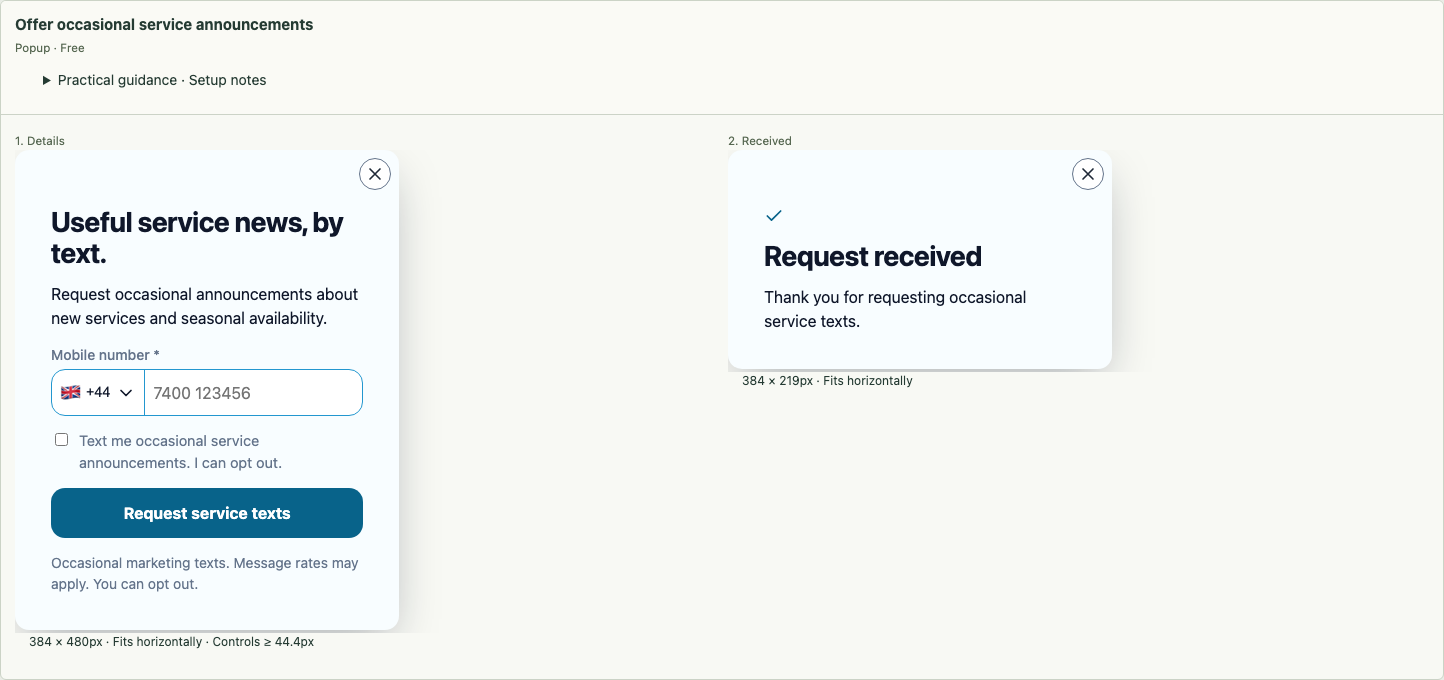
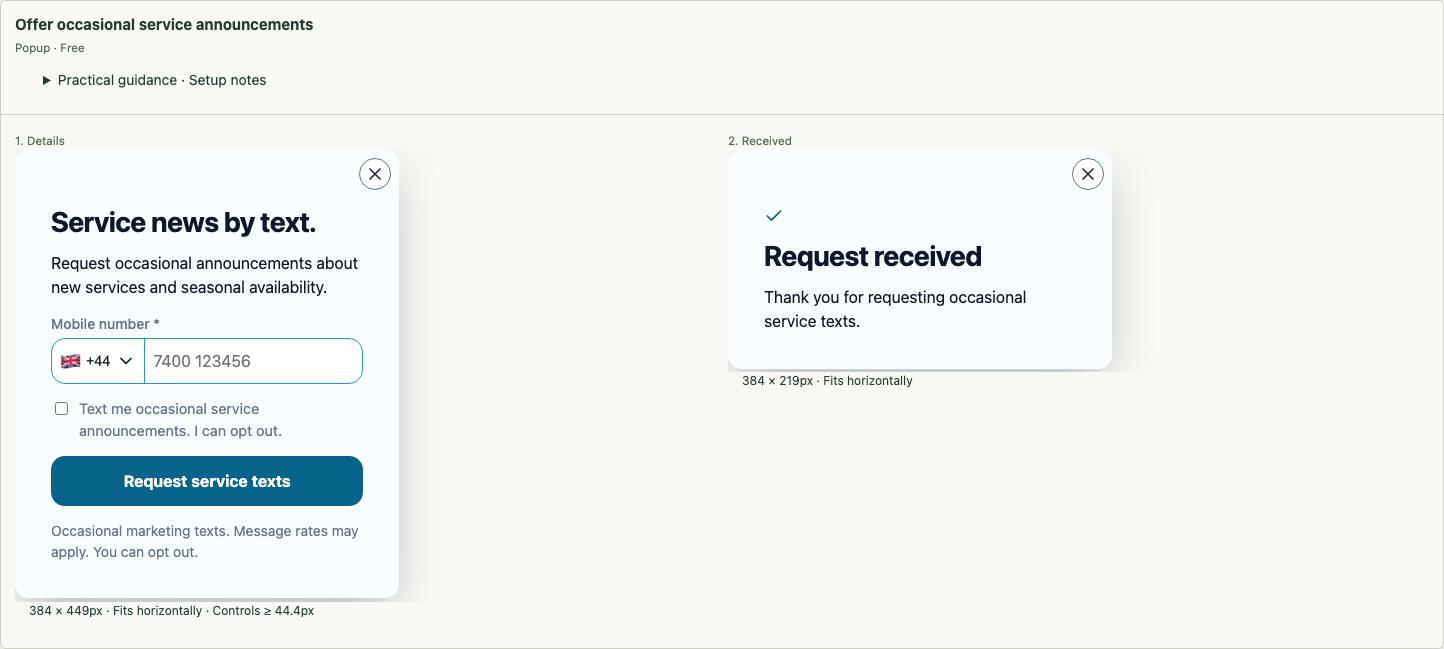
Address review: true copy, recorded design versions, real Privacy Guidance
- studio-welcome ties the code to joining again: a list Goal shows consent
  and a shown consent is required, so the earlier "choose whether" wording
  was false.
- collection-interest fills both fine-print slots and no longer implies the
  choice filters the email; service-text-updates' headline fits one line;
  related-essay no longer promises content the merchant may not have.
- The seven changed designs get their version in design-history.json.
- BundledJourney reveals consent through PrivacyGuidance itself.
- The drawings report counts six SVGs already on main; its hash is re-pinned.

Four setups re-approved over the fresh evidence.

diff --git a/resources/playbooks/collection-interest.php b/resources/playbooks/collection-interest.php
@@ -9,7 +9,7 @@ return [
     'template_id' => 'preference-card',
     'business_types' => ['stores'],
     'notes' => __('Embed on the collection hub. Map interest in a supported destination or use saved Lead data in your follow-up process. Capture alone does not create segmentation; MailPoet mapping applies to new subscribers only.', 'wconvert'),
-    'copy' => ['eyebrow'=>__('A useful starting point', 'wconvert'), 'headline'=>__('Shop news for your corner of home.', 'wconvert'), 'body'=>__('Choose a collection you would like to hear about in our monthly shop notes.', 'wconvert'), 'fine_print'=>__('Monthly shop notes. Choose a collection, or leave it for all of them.', 'wconvert'), 'interest_label'=>__('Which collection interests you most? (optional)', 'wconvert'), 'interest_placeholder'=>__('Choose an option', 'wconvert'), 'interest_options'=>['options'=>[['value'=>'garden', 'label'=>__('Garden and growing', 'wconvert')], ['value'=>'home', 'label'=>__('Home and everyday objects', 'wconvert')], ['value'=>'gifts', 'label'=>__('Thoughtful gifts', 'wconvert')]]], 'email_label'=>__('Email address', 'wconvert'), 'email_placeholder'=>__('you@example.com', 'wconvert'), 'consent_text'=>__('Email me monthly collection notes. I can unsubscribe anytime.', 'wconvert'), 'cta_label'=>__('Request collection notes', 'wconvert'), 'success_headline'=>__('Request received', 'wconvert'), 'success_body'=>__('Thank you for requesting our monthly shop notes.', 'wconvert')],
+    'copy' => ['eyebrow'=>__('A useful starting point', 'wconvert'), 'headline'=>__('Shop news for your corner of home.', 'wconvert'), 'body'=>__('Choose a collection you would like to hear about in our monthly shop notes.', 'wconvert'), 'fine_print'=>[__('Monthly shop notes from our garden, home and gift collections.', 'wconvert'), __('Choosing a collection is optional.', 'wconvert')], 'interest_label'=>__('Which collection interests you most? (optional)', 'wconvert'), 'interest_placeholder'=>__('Choose an option', 'wconvert'), 'interest_options'=>['options'=>[['value'=>'garden', 'label'=>__('Garden and growing', 'wconvert')], ['value'=>'home', 'label'=>__('Home and everyday objects', 'wconvert')], ['value'=>'gifts', 'label'=>__('Thoughtful gifts', 'wconvert')]]], 'email_label'=>__('Email address', 'wconvert'), 'email_placeholder'=>__('you@example.com', 'wconvert'), 'consent_text'=>__('Email me monthly collection notes. I can unsubscribe anytime.', 'wconvert'), 'cta_label'=>__('Request collection notes', 'wconvert'), 'success_headline'=>__('Request received', 'wconvert'), 'success_body'=>__('Thank you for requesting our monthly shop notes.', 'wconvert')],
     'rules' => [['type'=>'page_load']],
     'destination_hint' => ['types'=>[], 'fields'=>['email']],
 ];

diff --git a/resources/playbooks/studio-welcome.php b/resources/playbooks/studio-welcome.php
@@ -12,16 +12,16 @@ return [
     'copy' => [
         'eyebrow' => [__('A little room to grow', 'wconvert'), __('Your first order', 'wconvert'), __('Thank you', 'wconvert')],
         'body' => [__('Everyday objects.
-A slower kind of living.', 'wconvert'), __('Reveal 10% off your first order, and choose whether to get our monthly home and garden notes.', 'wconvert')],
+A slower kind of living.', 'wconvert'), __('Join our monthly home and garden notes to reveal 10% off your first order.', 'wconvert')],
         'headline' => __('Make yourself
 at home.', 'wconvert'),
         'email_label' => __('Email address', 'wconvert'),
         'email_placeholder' => __('you@example.com', 'wconvert'),
         'consent_text' => __('Email me monthly home and garden notes. I can unsubscribe anytime.', 'wconvert'),
-        'cta_label' => __('Reveal my code', 'wconvert'),
+        'cta_label' => __('Join and reveal my code', 'wconvert'),
         'fine_print' => [__('First order only. Review the store’s offer terms before checkout.', 'wconvert'), __('First order only. Offer terms apply.', 'wconvert')],
         'success_headline' => __('A little welcome, for you.', 'wconvert'),
-        'success_body' => __('Here is your welcome code. Use it at checkout on your first order.', 'wconvert'),
+        'success_body' => __('You have joined our monthly notes. Here is your welcome code for your first order.', 'wconvert'),
     ],
     'rules' => [[
             'type' => 'time_on_page',

diff --git a/tests/unit/Support/BundledJourney.php b/tests/unit/Support/BundledJourney.php
@@ -2,6 +2,9 @@
 
 namespace WConvert\Tests\Unit\Support;
 
+use WConvert\Goal\Goal;
+use WConvert\Privacy\PrivacyGuidance;
+
 /**
  * A bundled journey design as a list-Goal campaign holds it. The library ships
  * every consent hidden, and Privacy Guidance reveals it at prefill (ADR 0099),
@@ -29,11 +32,6 @@ final class BundledJourney
      */
     public static function revealed(array $tree): array
     {
-        $reveal = static function (array $node) use (&$reveal): array {
-            if (($node['type'] ?? null) === 'consent') $node['hidden'] = false;
-            foreach ($node as $key => $child) if (is_array($child)) $node[$key] = $reveal($child);
-            return $node;
-        };
-        return $reveal($tree);
+        return (new PrivacyGuidance(new FakeOptionStore()))->treeFor($tree, Goal::GrowEmailList);
     }
 }

diff --git a/resources/playbooks/service-text-updates.php b/resources/playbooks/service-text-updates.php
@@ -10,7 +10,7 @@ return [
     'business_types' => ['services'],
     'notes' => __('Connect a supported SMS service or choose Keep in WConvert only with a defined follow-up process. These are marketing announcements, not appointment reminders.', 'wconvert'),
     'copy' => [
-        'headline' => __('Useful service news, by text.', 'wconvert'),
+        'headline' => __('Service news by text.', 'wconvert'),
         'body' => __('Request occasional announcements about new services and seasonal availability.', 'wconvert'),
         'phone_label' => __('Mobile number', 'wconvert'),
         'phone_placeholder' => __('+44 7700 900000', 'wconvert'),

diff --git a/resources/playbooks/related-essay.php b/resources/playbooks/related-essay.php
@@ -12,7 +12,7 @@ return [
     'copy' => [
         'eyebrow' => __('Keep reading', 'wconvert'),
         'headline' => __('Next: putting the idea into practice.', 'wconvert'),
-        'body' => __('The follow-up article walks through one small change to try this week, with an example.', 'wconvert'),
+        'body' => __('The follow-up turns this article’s idea into practical steps you can try.', 'wconvert'),
         'fine_print' => __('Continue when you have a moment.', 'wconvert'),
         'cta_label' => __('Read the follow-up', 'wconvert')
     ],

diff --git a/docs/reviews/held-designs-2026-10-25/review.md b/docs/reviews/held-designs-2026-10-25/review.md
@@ -2,7 +2,7 @@
 
 20 setups the backlog review of 20 October sent back for revision, each reworked against its note. Machine checks: `results.json` (all 20 pass the visitor walk on a disposable WordPress at 320 and 1280 px). Judgement from each setup's contact sheets (`<id>-320.png`, `<id>-1440.png`) against `tools/design-library/pilot/PRACTICAL-REVIEW.md`. Standing limits: `tools/design-library/review/README.md`.
 
-Design changes in this round: `ink-split` and `stacked-signup` put consent above the submit button, and ink-split centres its acknowledgement check; `journey-enquiry` and `journey-email-then-sms` put Back after the primary and skip actions, and the latter labels it Change email; `studio-window` caps its drawing at 7rem on phones; the three journey designs that showed consent by default now ship it hidden, which Privacy Guidance reveals for list Goals (ADR 0099). No setup that was approved uses a changed design except `maker-session-invitation`, whose render is unchanged.
+Design changes in this round: `ink-split` and `stacked-signup` put consent above the submit button, and ink-split centres its acknowledgement check; `journey-enquiry` and `journey-email-then-sms` put Back after the primary and skip actions, and the latter labels it Change email; `studio-window` caps its drawing at 7rem on phones; the three journey designs that showed consent by default now ship it hidden, which Privacy Guidance reveals for list Goals (ADR 0099). No setup that was approved uses a changed design except `maker-session-invitation`, whose render is unchanged. Two bundled starting points outside the catalogue, `journey-enquiry` and `journey-email-only`, also use changed designs: one gains the Back order above, and both still show consent for a list Goal because Privacy Guidance reveals it. `journey-email-only` keeps its design in the plugin, so 23 of the 24 held designs can now be published.
 
 ## Approved
 
@@ -19,10 +19,10 @@ Design changes in this round: `ink-split` and `stacked-signup` put consent above
 - **headlines-optional-sms**: the email step's headline says what the briefing is. Action order and the Change email label match the journey above; the acknowledgement is true whether or not a number was added.
 - **landscaping-enquiry**: Back now sits below the primary 'Send my garden enquiry' at both widths, so the hierarchy reads top to bottom.
 - **accounting-consultation**: the headline names bookkeeping. The acknowledgement eyebrow is 'Thank you' and the body states the email reply, so nothing promises steps it does not give.
-- **collection-interest**: the collection question reads as the point but stays optional, and the acknowledgement no longer claims a preference was received. The phone headline breaks cleanly and unsubscribe wording appears once.
+- **collection-interest**: the collection question reads as the point but stays optional, said once under the button, and the acknowledgement no longer claims a preference was received. The phone headline breaks cleanly and unsubscribe wording appears once.
 - **project-readiness-guide**: the cover now carries a numeral and a short caption, so the form has the only headline. 'One resource email' appears once, and the acknowledgement says the checklist was requested by email.
 - **workspace-change-story**: visitor copy no longer calls the room fictional; the footnote states the limit plainly (every room differs). The headline no longer echoes accounting-consultation.
-- **related-essay**: the headline and body now say what the follow-up covers: one small change to try, with an example.
+- **related-essay**: the headline and body now say what the follow-up is for: putting this article's idea into practice. The merchant names the actual article in its link; the setup cannot know it.
 - **drop-alerts**: consent sits above the button, and its wording is an agreement rather than a second copy of the button. The footer carries rates and opt-out once.
-- **service-text-updates**: consent sits above the button; the desktop headline no longer strands 'By / text'; the acknowledgement names the service texts.
-- **studio-welcome**: on a phone the drawing is 112 px tall, so the headline and the offer start in the first screen. Copy no longer ties the code to joining: the code is revealed either way and the monthly notes are a separate, unticked choice. The acknowledgement says the code is here.
+- **service-text-updates**: consent sits above the button; the shorter headline sits on one line on desktop; the acknowledgement names the service texts.
+- **studio-welcome**: on a phone the drawing is 112 px tall, so the headline and the offer start in the first screen. The code is tied to joining, and that is honest: a list Goal shows the consent box and a shown consent box is required (ADR 0032, ADR 0099), so nobody reaches the code without joining. The acknowledgement now says so and presents the code.

diff --git a/docs/reviews/drawing-exports-2026-10-25/report.md b/docs/reviews/drawing-exports-2026-10-25/report.md
@@ -1,6 +1,6 @@
 # Drawing exports — 25 October 2026
 
-Thirteen inline SVG drawings in twelve Free designs had no reviewed raster, so the catalogue could not export those designs (ADR 0156). Each drawing was extracted unchanged from its design into `tools/design-library/pilot/assets/<name>.svg` (five were already there, byte-identical), and rasterised once with resvg-js 2.6.2 to an 8-bit PNG at about twice its largest displayed size. No build converts automatically: `publishing/catalog.json` binds each design's exact source URI hash to the PNG hash and to this report.
+Thirteen inline SVG drawings in twelve Free designs had no reviewed raster, so the catalogue could not export those designs (ADR 0156). Each drawing was extracted unchanged from its design into `tools/design-library/pilot/assets/<name>.svg` (six were already there, byte-identical), and rasterised once with resvg-js 2.6.2 to an 8-bit PNG at about twice its largest displayed size. No build converts automatically: `publishing/catalog.json` binds each design's exact source URI hash to the PNG hash and to this report.
 
 **Provenance.** Every drawing is original WConvert geometric artwork authored in this repository (first commits between 28 August and 28 September 2026; see `pilot/assets/README.md`), under the repository's GPL-2.0-or-later licence. They contain only rectangles, paths, circles, ellipses and one linear gradient: no external images, scripts, remote references or trademarks. `garment-measurement.svg` draws the letters A and B in Arial; the raster fixes those two glyphs as shapes. They illustrate, and claim no real product, person or completed project.
 
